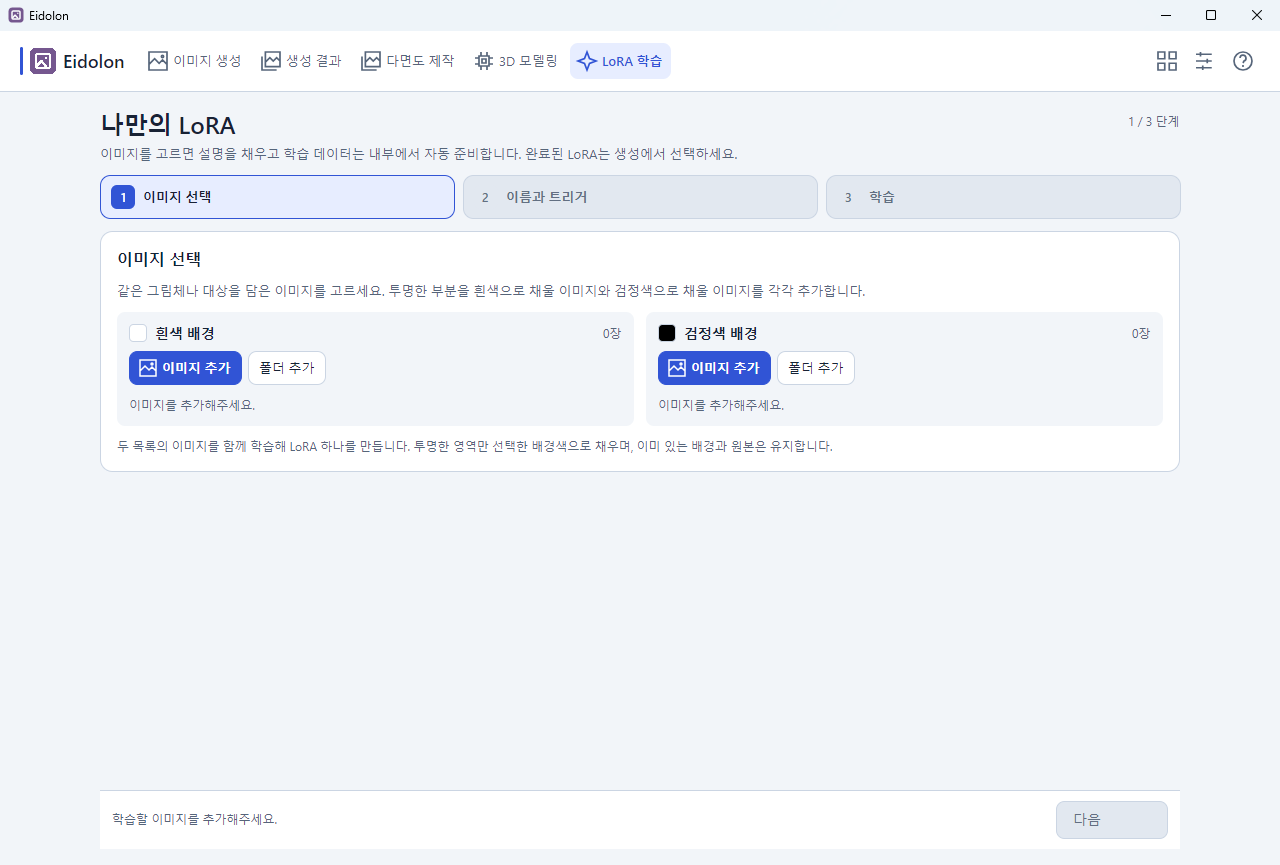
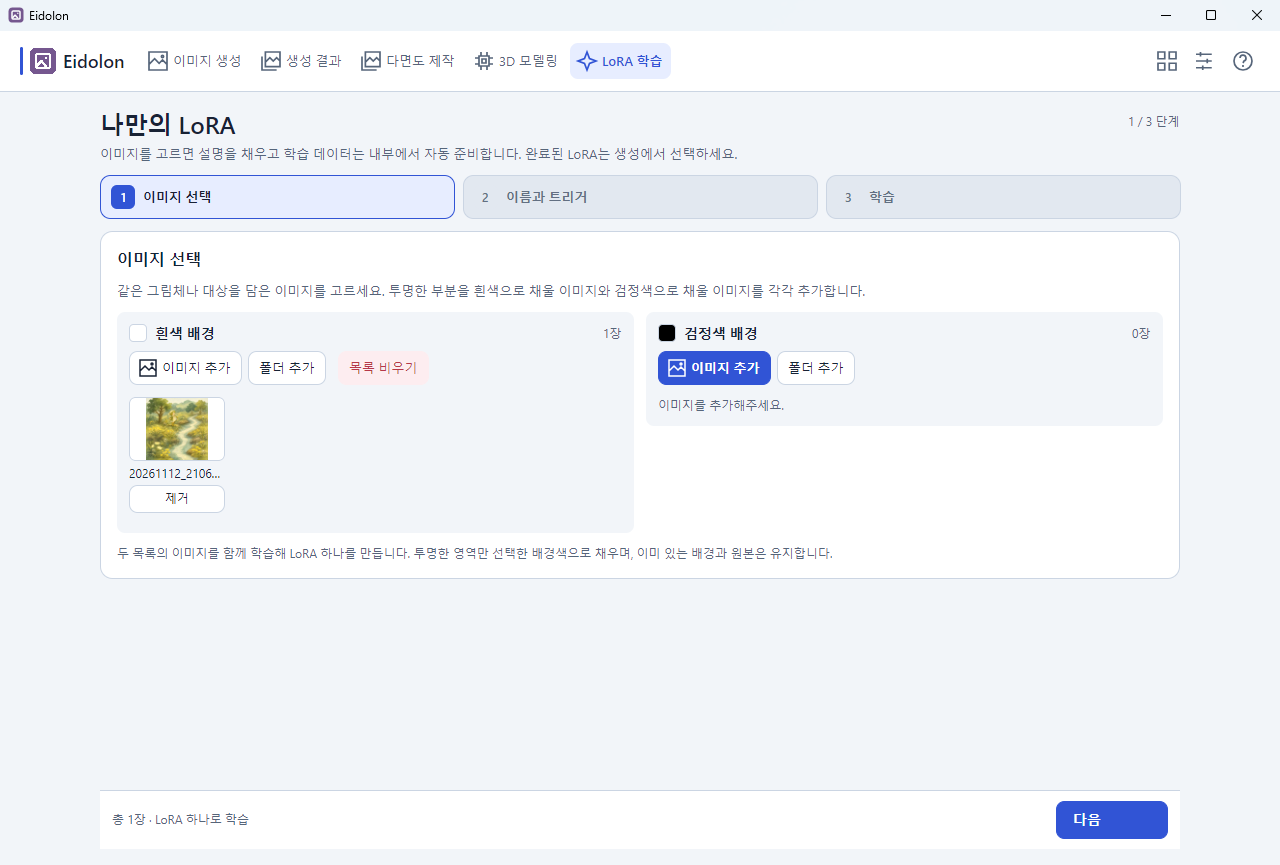
README에 LoRA 학습 준비 화면 추가

diff --git a/README.en.md b/README.en.md
@@ -46,6 +46,12 @@ Front, left, right, and back views generated from one telescope reference photo.
 
 Review the completed model alongside its reference images. Save the result as a Blender or GLB file, or continue editing it.
 
+### LoRA training setup
+
+![LoRA training input setup in Eidolon](Docs/images/readme-training.png)
+
+The generated woodland image is in the white-background group. Training was not started.
+
 ## Core experience
 
 - **Prompt-based generation**: Describe your subject and optionally add a reference image.
